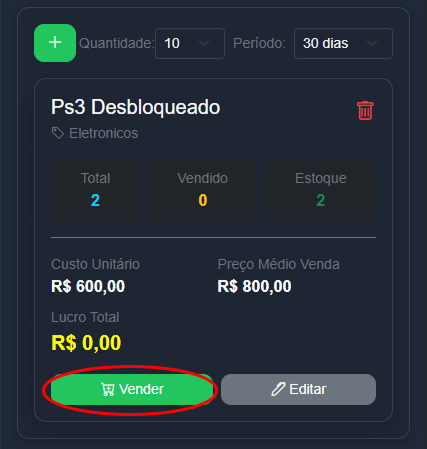
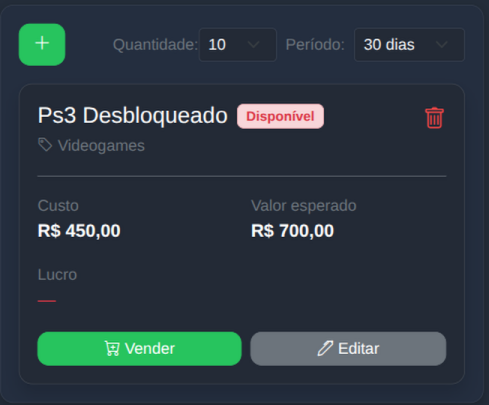
feat:added player modal

diff --git a/bricker_app/templates/partials/header/header.html b/bricker_app/templates/partials/header/header.html
@@ -1,74 +1,44 @@
-{% load static %} 
-  <header class="header-color shadow-sm sticky-top">
-    <nav class="navbar navbar-expand-lg navbar-dark container">
-  
-      <a class="navbar-brand fw-bold" href="{% url 'products_view' %}">
-        <h2 class="mb-0">
-          <i class="bi bi-box-seam me-2"></i>Bricker
-        </h2>
+{% load static %}
+<header class="header-color shadow-sm sticky-top">
+  <nav class="navbar navbar-expand-lg navbar-dark container">
+
+    <!-- Logo -->
+    <a class="navbar-brand fw-bold" href="{% url 'products_view' %}">
+      <h2 class="mb-0">
+        <i class="bi bi-box-seam me-2"></i>Bricker
+      </h2>
+    </a>
+
+    <!-- Botões do lado direito -->
+    {% if user.is_authenticated %}
+    <div class="d-flex align-items-center ms-auto gap-2">
+
+      <!-- Ajuda -->
+      <button class="btn p-1" data-bs-toggle="modal" data-bs-target="#onBoardingModal" aria-label="Ajuda">
+        <img src="{% static 'img/icons/help-circle.svg' %}" alt="Ajuda" style="width: 24px;">
+      </button>
+
+      <!-- Perfil -->
+      <button
+        class="btn p-0 d-flex align-items-center justify-content-center rounded-circle"
+        style="width: 36px; height: 36px; background: rgba(255,255,255,0.08); border: 1px solid rgba(255,255,255,0.15);"
+        data-bs-toggle="modal"
+        data-bs-target="#userProfileModal"
+        aria-label="Perfil do usuário"
+      >
+        <i class="bi bi-person-fill" style="font-size: 1.1rem; color: #F3F4F6;"></i>
+      </button>
+
+    </div>
+    {% else %}
+    <div class="ms-auto">
+      <a href="{% url 'login' %}" class="btn btn-primary btn-sm rounded-pill px-3 text-white fw-bold">
+        Bem vindo
       </a>
+    </div>
+    {% endif %}
 
-      {% comment %} Begin:: Mobile menu {% endcomment %}
-      <div class="d-flex align-items-center ms-auto">
-        {% comment %} Onboarding button {% endcomment %}
+  </nav>
+</header>
 
-        {% if user.is_authenticated %}
-
-        <button class="btn d-lg-none me-2" data-bs-toggle="modal" data-bs-target="#onBoardingModal">
-          <img src="{% static 'img/icons/help-circle.svg' %}" alt="help" style="width: 24px;">
-        </button>
-        {% endif %}
-
-        <!-- Toggle -->
-        <button class="navbar-toggler" type="button" data-bs-toggle="collapse" data-bs-target="#navbarNav"
-          aria-controls="navbarNav" aria-expanded="false" aria-label="Toggle navigation">
-          <span class="navbar-toggler-icon"></span>
-        </button>
-      </div>
-      {% comment %} End:: Mobile menu {% endcomment %}
-
-      <!-- 3. Conteúdo colapsável -->
-      <div class="collapse navbar-collapse" id="navbarNav">
-        <ul class="navbar-nav ms-auto align-items-center">
-          {% if user.is_authenticated %}
-          {% if user_agent.is_pc %}
-          <li class="nav-item">
-            <button class="btn btn-sm" data-bs-toggle="modal" data-bs-target="#onBoardingModal">
-              <img src="{% static 'img/icons/help-circle.svg' %}" alt="help circle icon">
-            </button>
-          </li>
-          {% endif %}
-
-
-
-          <li class="nav-item d-none">
-            <a class="nav-link text-white" href="#">
-              <i class="bi bi-cart-check"></i> Vendas
-            </a>
-          </li>
-
-          <li class="nav-item d-none">
-            <a class="nav-link text-white" href="#">
-              <i class="bi bi-cash-coin"></i> Financeiro
-            </a>
-          </li>
-
-          <li class="nav-item ms-lg-2">
-            <form action="{% url 'logout' %}" method="post">
-              {% csrf_token %}
-              <button type="submit" class="btn btn-danger btn-sm rounded-pill px-3">
-                <i class="bi bi-box-arrow-right"></i> Sair
-              </button>
-            </form>
-          </li>
-          {% else %}
-          <li class="nav-item">
-            <a href="{% url 'login' %}" class="btn btn-primary btn-sm rounded-pill px-3 text-white fw-bold">
-              Bem vindo
-            </a>
-          </li>
-          {% endif %}
-        </ul>
-      </div>
-    </nav>
-  </header>
+{% include "partials/modals/user_modal.html" %}

diff --git a/bricker_app/templates/partials/modals/user_modal.html b/bricker_app/templates/partials/modals/user_modal.html
@@ -1,0 +1,63 @@
+{% load static %}
+
+{% if user.is_authenticated %}
+<div class="modal fade" id="userProfileModal" tabindex="-1" aria-labelledby="userProfileModalLabel" aria-hidden="true">
+  <div class="modal-dialog modal-dialog-centered">
+    <div class="modal-content border-0 rounded-3 shadow" style="background: #1E2533;">
+      <div class="modal-header border-0 pb-0">
+        <button type="button" class="btn-close btn-close-white" data-bs-dismiss="modal" aria-label="Fechar"></button>
+      </div>
+
+      <div class="modal-body text-center px-4 pt-2 pb-4">
+
+        <!-- Avatar -->
+        <div
+          class="mx-auto mb-3 d-flex align-items-center justify-content-center rounded-circle"
+          style="width: 72px; height: 72px; background: rgba(255,255,255,0.08); border: 2px solid rgba(255,255,255,0.15);"
+        >
+          <i class="bi bi-person-fill" style="font-size: 2rem; color: #9CA3AF;"></i>
+        </div>
+
+        <!-- Nome e email -->
+        <h5 class="text-white fw-semibold mb-1">{{ user.get_full_name|default:user.username }}</h5>
+        <p class="text-secondary small mb-0">{{ user.email|default:"—" }}</p>
+
+        <hr style="border-color: rgba(255,255,255,0.08); margin: 1.25rem 0;">
+
+        <!-- Infos -->
+        <div class="text-start mb-4">
+          <div class="d-flex justify-content-between mb-2">
+            <small class="text-secondary">Usuário</small>
+            <small class="text-white fw-medium">{{ user.username }}</small>
+          </div>
+
+          <div class="d-flex justify-content-between mb-2">
+            <small class="text-secondary">Plano</small>
+            <small class="text-white fw-medium">
+              {% if user.profile.plan %}
+                {{ user.profile.plan.name }}
+              {% else %}
+                —
+              {% endif %}
+            </small>
+          </div>
+
+          <div class="d-flex justify-content-between">
+            <small class="text-secondary">Membro desde</small>
+            <small class="text-white fw-medium">{{ user.date_joined|date:"d/m/Y" }}</small>
+          </div>
+        </div>
+
+        <!-- Logout -->
+        <form action="{% url 'logout' %}" method="POST">
+          {% csrf_token %}
+          <button type="submit" class="btn btn-danger w-100 rounded-pill fw-semibold">
+            <i class="bi bi-box-arrow-right me-2"></i> Sair
+          </button>
+        </form>
+
+      </div>
+    </div>
+  </div>
+</div>
+{% endif %}

diff --git a/bricker_app/templates/partials/modals/onboarding.html b/bricker_app/templates/partials/modals/onboarding.html
@@ -112,7 +112,7 @@
             </h4>
 
             <p class="instruction">
-              - Após inserir tudo, clique em confirmar venda, o sistema ja vai contabilizar seu faturamento e lucro!
+              - Se o valor da venda tiver sido o mesmo do valor esperado, basta clicar em Confirmar venda.
             </p>
 
             {% if user_agent.is_pc %}

diff --git a/bricker_app/templates/views/create.html b/bricker_app/templates/views/create.html
@@ -12,7 +12,7 @@
         <div class="card card-dark shadow-soft rounded-3 border-0">
 
           {% comment %} Title {% endcomment %}
-          <div class="card-header header-color border-bottom border-cor-borda pt-3 pb-2">
+          <div class="text-white card-header header-color border-bottom border-cor-borda pt-3 pb-2">
             <h2 class="card-title text-center mb-0">
               <i class="bi bi-box-seam me-2"></i> Cadastrar Produto
             </h2>

diff --git a/bricker/settings.py b/bricker/settings.py
@@ -31,10 +31,14 @@ DEBUG = True
 
 ALLOWED_HOSTS = ['*']
 
+SECURE_PROXY_SSL_HEADER = ('HTTP_X_FORWARDED_PROTO', 'https')
+
 CSRF_TRUSTED_ORIGINS = [
   'https://*.pythonanywhere.com',
   'http://127.0.0.1:8000',
-  'http://localhost:8000'
+  'http://localhost:8000',
+   'http://0.0.0.0:8000',
+  'https://*.ngrok-free.app',
 ]
 
 AUTHENTICATION_BACKENDS = [